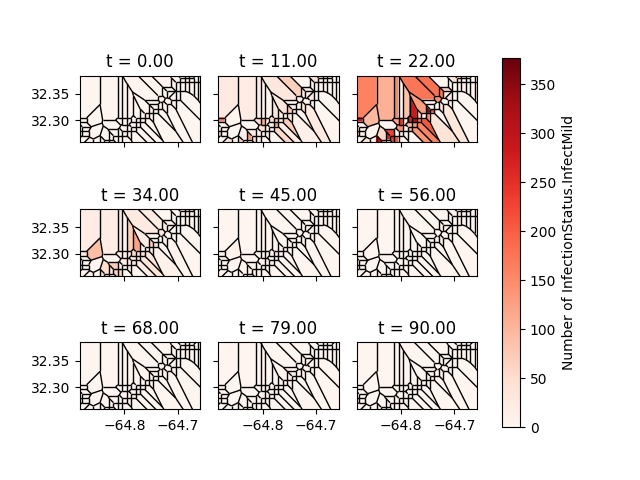
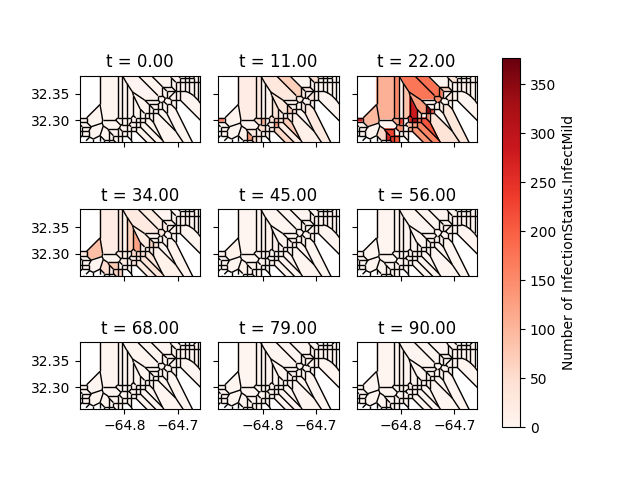
bermuda outline code started

diff --git a/python_examples/bermuda_example/bermuda_outline.py b/python_examples/bermuda_example/bermuda_outline.py
@@ -1,0 +1,35 @@
+import os
+import matplotlib.pyplot as plt
+
+from cartopy import config
+import cartopy.crs as ccrs
+
+
+fig = plt.figure(figsize=(8, 12))
+
+# get the path of the file. It can be found in the repo data directory.
+fname = os.path.join(config["repo_data_dir"],
+                     'raster', 'sample', 'Miriam.A2012270.2050.2km.jpg'
+                     )
+img_extent = (-120.67660000000001, -106.32104523100001, 13.2301484511245, 30.766899999999502)
+img = plt.imread(fname)
+
+ax = plt.axes(projection=ccrs.PlateCarree())
+plt.title('Hurricane Miriam from the Aqua/MODIS satellite\n'
+          '2012 09/26/2012 20:50 UTC')
+
+ax.use_sticky_edges = False
+# set a margin around the data
+ax.set_xmargin(0.05)
+ax.set_ymargin(0.10)
+
+# add the image. Because this image was a tif, the "origin" of the image is in the
+# upper left corner
+ax.imshow(img, origin='upper', extent=img_extent, transform=ccrs.PlateCarree())
+ax.coastlines(resolution='50m', color='black', linewidth=1)
+
+# mark a known place to help us geo-locate ourselves
+ax.plot(-117.1625, 32.715, 'bo', markersize=7, transform=ccrs.Geodetic())
+ax.text(-117, 33, 'San Diego', transform=ccrs.Geodetic())
+
+plt.show()

diff --git a/python_examples/bermuda_example/bermuda_voronoi.py b/python_examples/bermuda_example/bermuda_voronoi.py
@@ -166,6 +166,8 @@ def plot_time_point(
             continue
         if -1 not in region:
             point_idx = np.where(vor.point_region == r)[0]
+            if len(vor.points[point_idx]) == 0:
+                continue
             point = vor.points[point_idx][0]
             if point_in_region(point, grid_lim):
                 value = find_value_for_region(current_data, point, name=name)
@@ -341,13 +343,12 @@ grid_limits = [[min_x, max_x], [min_y, max_y]]
 
 
 # Add 4 distant dummy points to ensure all cells are finite
-locations = np.append(
-    locations, [[999, 999], [-999, 999], [999, -999], [-999, -999]], axis=0
-)
+# locations = np.append(
+#     locations, [[999, 999], [-999, 999], [999, -999], [-999, -999]], axis=0
+# )
 
 # Compute and plot Tesselation
 vor = Voronoi(locations)
-
 # Plot grid of time points
 fig_loc = ("python_examples/bermuda_example/simulation_outputs/"
            + "voronoi_grid_img.png")
